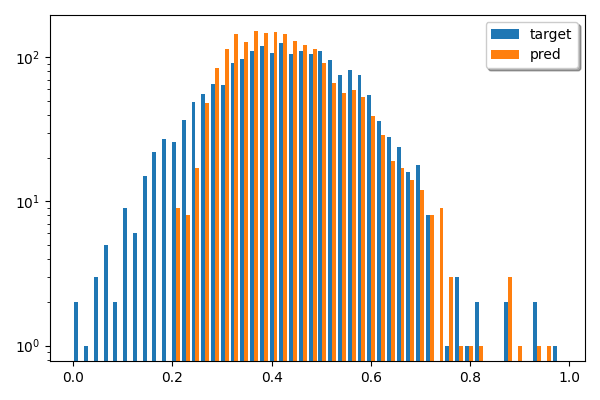
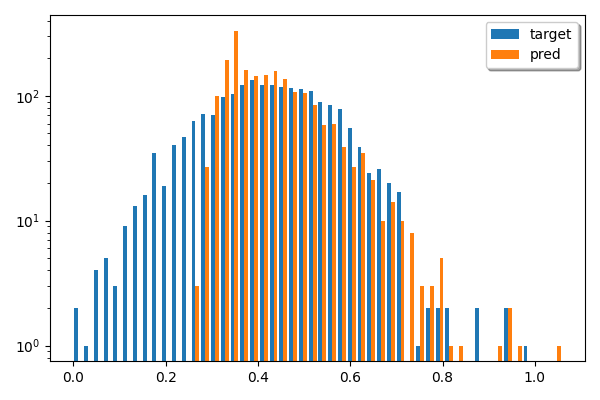
Reduced heads for GPS layers, swapped attention type, leaky relu activation, dropout

diff --git a/unsupervised/encoder/encoder.py b/unsupervised/encoder/encoder.py
@@ -76,8 +76,8 @@ class Encoder(torch.nn.Module):
 
 		self.pooling_type = pooling_type
 		if convolution == "gps":	
-			emb_dim = np.around(emb_dim / 8).astype(int) * 8
-			print(f"Switching embedding dim to nearest compatible with 8 heads, {emb_dim}")
+			emb_dim = np.around(emb_dim / 4).astype(int) * 4
+			print(f"Switching embedding dim to nearest compatible with 4 heads, {emb_dim}")
 		self.emb_dim = emb_dim
 		self.num_gc_layers = num_gc_layers
 		self.drop_ratio = drop_ratio
@@ -139,8 +139,12 @@ class Encoder(torch.nn.Module):
 								Linear(2 * emb_dim, emb_dim))
 				conv = GPSConv(emb_dim,
 				   				GINEConv(nn),
-								heads = 8,
-								attn_type="performer")
+								heads = 4,
+								attn_type="performer",
+								act = "leaky_relu",  # to allow small gradients even for negative inputs
+								act_kwargs = {"negative_slope": 0.01},  # if using LeakyReLU)
+								dropout=0.3
+								)
 				bn = torch.nn.BatchNorm1d(emb_dim)
 				self.convs.append(conv)
 				self.bns.append(bn)

diff --git a/datasets/loaders.py b/datasets/loaders.py
@@ -206,6 +206,7 @@ def get_test_loaders(batch_size, transforms, num = 2000):
     """
 
     datasets, names = get_test_datasets(transforms, num=num)
+    print(f"Test datasets:\n{list(zip(names, datasets))}\n")
     datasets = [DataLoader(data, batch_size=batch_size) for data in datasets]
 
     return datasets, names
@@ -235,6 +236,7 @@ def get_val_loaders(batch_size, transforms, num = 5000):
     """
 
     datasets, names = get_val_datasets(transforms, num = num)
+    print(f"Validation datasets:\n{[(names[idataset], len(dataset)) for idataset, dataset in enumerate(datasets)]}\n")
     datasets = [DataLoader(data, batch_size=batch_size) for data in datasets]
 
     return datasets, names
